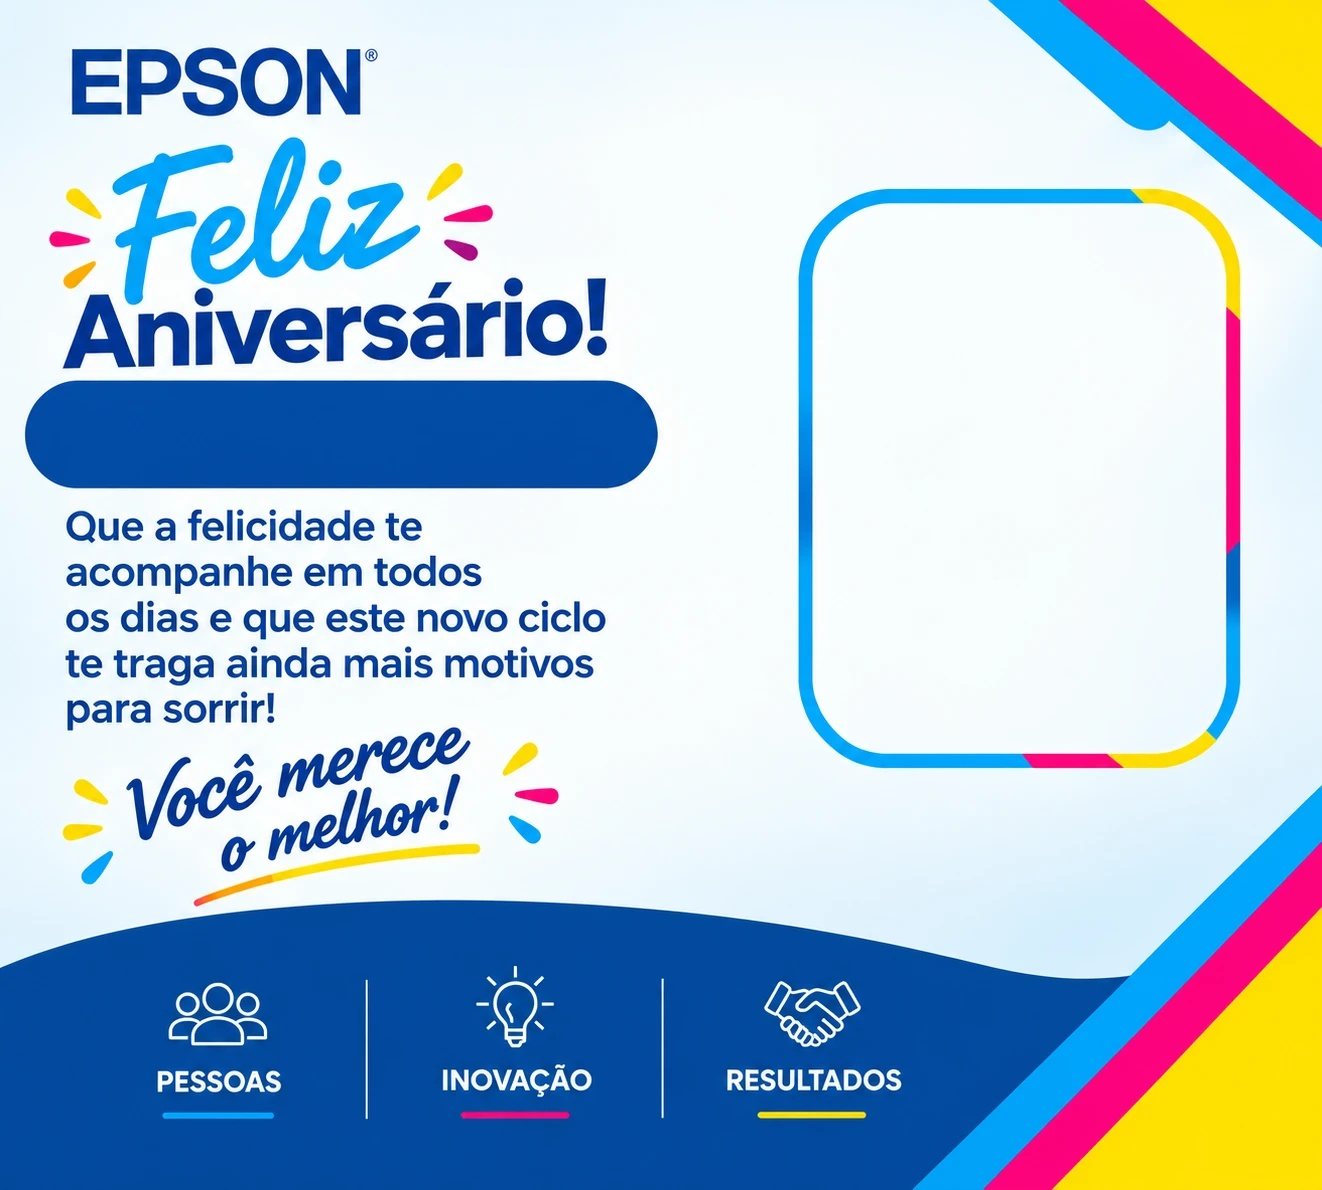
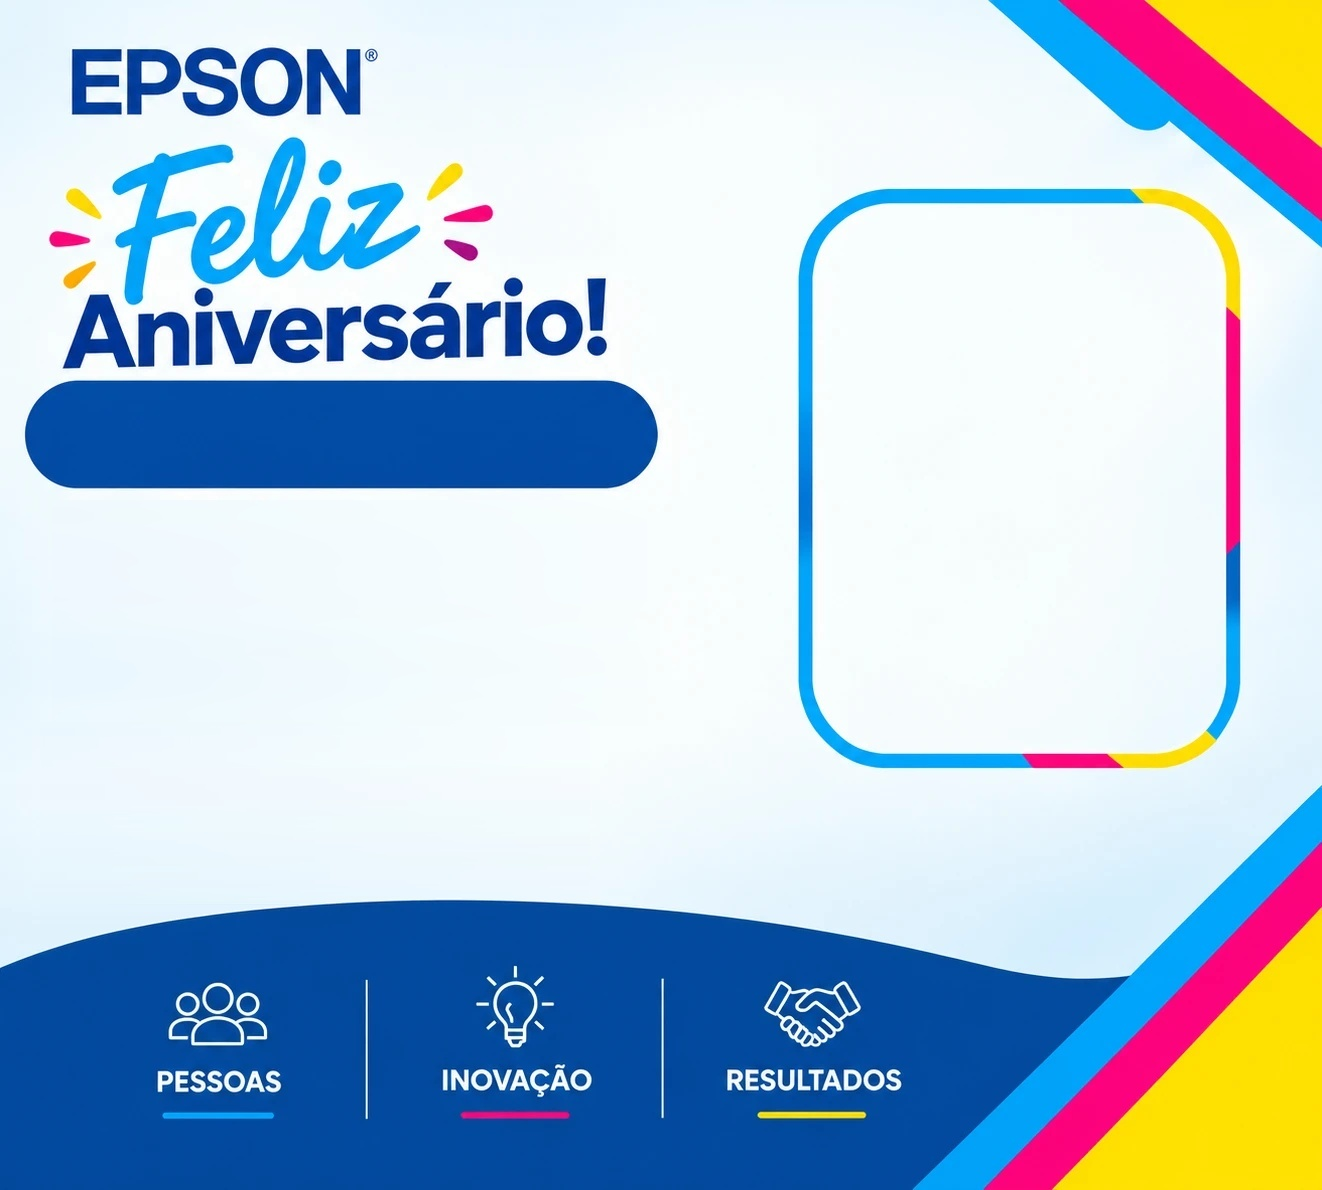
Aniversariantes: ajustes na arte e assinaturas

Changed region(s): [[0.031, 0.4353, 0.4652, 0.7773]]

diff --git a/lib/arte-aniversario.ts b/lib/arte-aniversario.ts
@@ -9,6 +9,91 @@ const MOLDURA_URL = '/aniversario/arte-moldura.png';
 const MOLDURA_POS = { x: 780, y: 170 };
 const NOME = { cx: 341, cy: 434, maxW: 560 };
 
+// Caixa onde a frase de felicitação é escrita (a arte-base vem sem a frase)
+const FRASE_BOX = { x: 66, y: 506, w: 560, h: 216, maxLinhas: 5 };
+const FRASE_COR = '#0f3d89';
+
+interface FraseAniversario {
+  texto: string;
+  // Assinatura original da arte desta frase (PNG com fundo transparente) e posição na arte-base
+  assinatura: { url: string; x: number; y: number };
+}
+
+export const FRASES_ANIVERSARIO: FraseAniversario[] = [
+  {
+    texto: 'Que a felicidade te acompanhe em todos os dias e que este novo ciclo te traga ainda mais motivos para sorrir!',
+    assinatura: { url: '/aniversario/assinatura-1.png', x: 46, y: 720 }, // Você merece o melhor!
+  },
+  {
+    texto: 'Que seu dia seja especial do jeito que você merece! Saúde, paz, sucesso e muitas realizações sempre!',
+    assinatura: { url: '/aniversario/assinatura-2.png', x: 80, y: 723 }, // Parabéns!
+  },
+  {
+    texto: 'Que seu dia seja repleto de alegria, boas surpresas e tudo aquilo que te faz bem!',
+    assinatura: { url: '/aniversario/assinatura-3.png', x: 79, y: 758 }, // Parabéns!
+  },
+  {
+    texto: 'Que este novo ciclo seja marcado por muitas conquistas, realizações e momentos especiais!',
+    assinatura: { url: '/aniversario/assinatura-4.png', x: 79, y: 735 }, // Você faz a diferença!
+  },
+  {
+    texto: 'Que seu dia seja doce, leve e cheio de boas energias. Você merece todo o sucesso do mundo!',
+    assinatura: { url: '/aniversario/assinatura-5.png', x: 73, y: 765 }, // Parabéns!
+  },
+];
+
+const PARTICULAS = new Set(['da', 'de', 'do', 'das', 'dos', 'di', 'du', 'e']);
+
+const FILA_KEY = 'arte_aniversario_fila_frases';
+
+/**
+ * Rodízio das frases: sorteia sem repetir até todas terem sido usadas (fila embaralhada, guardada
+ * no navegador). Ao esvaziar, reembaralha garantindo que a primeira nova não repita a última usada.
+ */
+export function proximaFrase(): FraseAniversario {
+  const total = FRASES_ANIVERSARIO.length;
+  let fila: number[] = [];
+  let ultima = -1;
+  try {
+    const salvo = JSON.parse(localStorage.getItem(FILA_KEY) || 'null');
+    if (salvo && Array.isArray(salvo.fila)) {
+      fila = salvo.fila.filter((i: unknown) => Number.isInteger(i) && (i as number) >= 0 && (i as number) < total);
+      ultima = Number.isInteger(salvo.ultima) ? salvo.ultima : -1;
+    }
+  } catch {}
+
+  if (fila.length === 0) {
+    fila = Array.from({ length: total }, (_, i) => i);
+    for (let i = fila.length - 1; i > 0; i--) {
+      const j = Math.floor(Math.random() * (i + 1));
+      [fila[i], fila[j]] = [fila[j], fila[i]];
+    }
+    if (total > 1 && fila[0] === ultima) [fila[0], fila[1]] = [fila[1], fila[0]];
+  }
+
+  const idx = fila.shift() as number;
+  try {
+    localStorage.setItem(FILA_KEY, JSON.stringify({ fila, ultima: idx }));
+  } catch {}
+  return FRASES_ANIVERSARIO[idx];
+}
+
+function quebrarLinhas(ctx: CanvasRenderingContext2D, texto: string, maxW: number): string[] {
+  const linhas: string[] = [];
+  let atual = '';
+  for (const palavra of texto.split(/\s+/)) {
+    const tentativa = atual ? `${atual} ${palavra}` : palavra;
+    if (atual && ctx.measureText(tentativa).width > maxW) {
+      linhas.push(atual);
+      atual = palavra;
+    } else {
+      atual = tentativa;
+    }
+  }
+  if (atual) linhas.push(atual);
+  return linhas;
+}
+
 function loadImage(src: string, cors = false): Promise<HTMLImageElement> {
   return new Promise((resolve, reject) => {
     const img = new window.Image();
@@ -29,7 +114,12 @@ function roundedRect(ctx: CanvasRenderingContext2D, x: number, y: number, w: num
 }
 
 /** Monta a arte de aniversário com a foto e o nome do colaborador e devolve um PNG. */
-export async function gerarArteAniversario(nome: string, fotoUrl?: string | null): Promise<Blob> {
+export async function gerarArteAniversario(nome: string, fotoUrl?: string | null, frase: FraseAniversario = proximaFrase()): Promise<Blob> {
+  // Usa a mesma fonte do sistema (Plus Jakarta Sans via next/font), com Arial de reserva
+  const familia = `${getComputedStyle(document.documentElement).fontFamily}, Arial, Helvetica, sans-serif`;
+  try {
+    await document.fonts.load(`700 40px ${familia}`);
+  } catch {}
   const base = await loadImage(ARTE_BASE_URL);
   const scale = 1;
   const canvas = document.createElement('canvas');
@@ -68,16 +158,43 @@ export async function gerarArteAniversario(nome: string, fotoUrl?: string | null
   }
 
   // Nome, reduzindo a fonte até caber na tarja
-  const texto = nome.trim().toUpperCase();
+  const partes = nome.trim().split(/\s+/);
+  // Com partícula (da, de, do...) no nome usa primeiro + último; senão, primeiro + segundo
+  const temParticula = partes.slice(1).some(w => PARTICULAS.has(w.toLowerCase()));
+  const escolhidas = temParticula && partes.length > 2 ? [partes[0], partes[partes.length - 1]] : partes.slice(0, 2);
+  const texto = escolhidas.join(' ').toUpperCase();
   let size = 56;
   ctx.fillStyle = '#ffffff';
   ctx.textAlign = 'center';
   ctx.textBaseline = 'middle';
   do {
-    ctx.font = `800 ${size}px Arial, Helvetica, sans-serif`;
+    ctx.font = `800 ${size}px ${familia}`;
     size -= 1;
   } while (ctx.measureText(texto).width > NOME.maxW && size > 16);
   ctx.fillText(texto, NOME.cx, NOME.cy + 3);
+
+  // Frase de felicitação: reduz a fonte até caber na caixa
+  ctx.fillStyle = FRASE_COR;
+  ctx.textAlign = 'left';
+  ctx.textBaseline = 'alphabetic';
+  let fonte = 40;
+  let linhas: string[] = [];
+  let passo = 0;
+  for (; fonte >= 24; fonte -= 1) {
+    ctx.font = `700 ${fonte}px ${familia}`;
+    linhas = quebrarLinhas(ctx, frase.texto, FRASE_BOX.w);
+    passo = fonte * 1.14;
+    if (linhas.length <= FRASE_BOX.maxLinhas && linhas.length * passo <= FRASE_BOX.h) break;
+  }
+  linhas.forEach((linha, i) => ctx.fillText(linha, FRASE_BOX.x, FRASE_BOX.y + fonte * 0.9 + i * passo));
+
+  // Assinatura original da frase (Parabéns!, Você merece o melhor!, etc.)
+  try {
+    const assinatura = await loadImage(frase.assinatura.url);
+    ctx.drawImage(assinatura, frase.assinatura.x, frase.assinatura.y);
+  } catch (e) {
+    console.warn('Assinatura da arte não pôde ser carregada.', e);
+  }
 
   return new Promise((resolve, reject) =>
     canvas.toBlob(b => (b ? resolve(b) : reject(new Error('Falha ao gerar imagem'))), 'image/png')

diff --git a/app/(authenticated)/aniversariantes/page.tsx b/app/(authenticated)/aniversariantes/page.tsx
@@ -259,7 +259,7 @@ export default function AniversariantesPage() {
     const nome = colab.nome.split(' ')[0];
     if (!voucher) return `Olá ${nome}! Feliz aniversário! \u{1F382} Aproveite muito o seu dia!`;
     const codigo = String(voucher.codigo || 'N/A').replace(/^\s*c[óo]digo\s*:?\s*/i, '').replace(/senha\s*:/i, 'senha:').trim();
-    return `Olá ${nome}! Feliz aniversário! \u{1F382} Aqui está seu presente do BKO SYSTEM: seu voucher ${voucher.produto}, código: ${codigo}. Aproveite seu dia!`;
+    return `Olá ${nome}! Feliz aniversário! \u{1F382} Aqui está seu presente da EPSON / SPOT: seu voucher ${voucher.produto}, código: ${codigo}. Aproveite seu dia!`;
   };
 
   const checkEligibility = (admissionDate: string, birthDate: string, vouchers: any[] = []) => {
